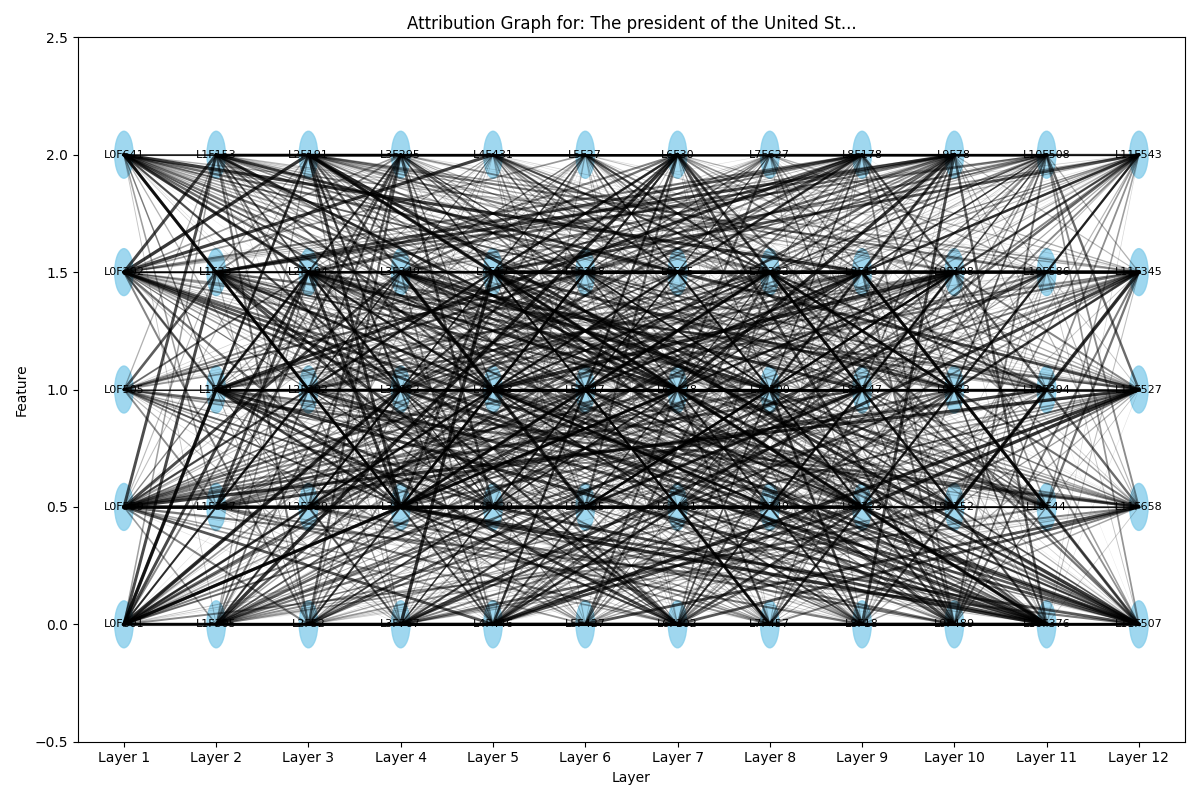
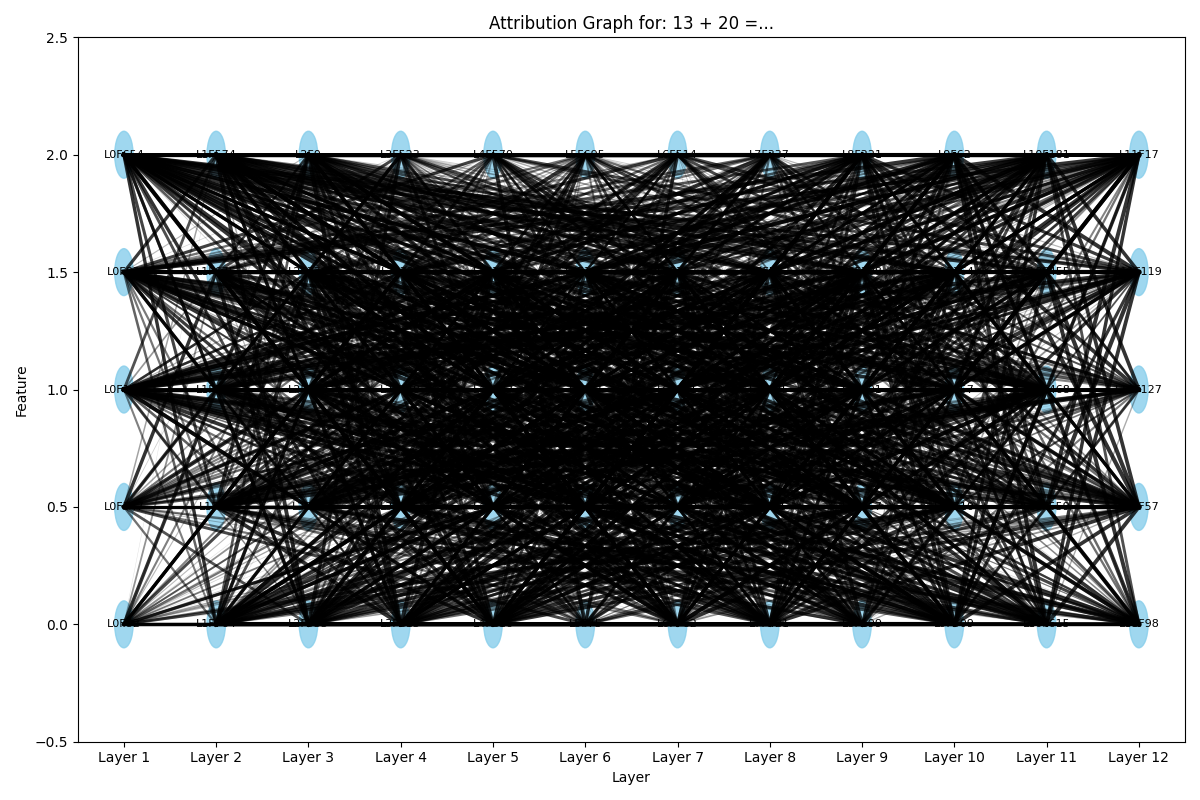
trying to make an addition dataset to work from ... but I think something else is going wrong in the code rn

diff --git a/src/practice_run.py b/src/practice_run.py
@@ -1,5 +1,13 @@
 from openclt.open_cross_layer_transcoder import OpenCrossLayerTranscoder, ReplacementModel
+from sklearn.model_selection import train_test_split
 import torch
+
+def create_addition_datset(A: list[int], B: list[int]):
+    dataset = set()
+    for a in A:
+        for b in B:
+            dataset.add(f"{a} + {b} =")
+    return list(dataset)
 
 # Set device
 device = "cuda" if torch.cuda.is_available() else "cpu"
@@ -12,11 +20,21 @@ transcoder = OpenCrossLayerTranscoder(
 )
 
 # Train the transcoder on sample texts
-train_texts = [
-    "The capital of France is Paris, which is known for the Eiffel Tower.",
-    "New York City is the largest city in the United States.",
-    # Add more training texts...
-]
+# train_texts = [
+#     "The capital of France is Paris, which is known for the Eiffel Tower.",
+#     "New York City is the largest city in the United States.",
+#     # Add more training texts...
+# ]
+
+train_texts, test_texts = train_test_split(
+    create_addition_datset(
+        list(range(1, 25)), 
+        list(range(1, 25))
+    ),
+    test_size=0.2,
+    random_state=42
+)
+
 
 metrics = transcoder.train_transcoder(
     texts=train_texts,
@@ -26,7 +44,8 @@ metrics = transcoder.train_transcoder(
 )
 
 # Visualize feature activations for a test text
-test_text = "The president of the United States lives in the White House."
+test_text = test_texts[0]
+print(f"Test text: {test_text}")
 transcoder.visualize_feature_activations(
     text=test_text,
     top_n=5,
@@ -48,7 +67,7 @@ replacement_model = ReplacementModel(
 
 # Generate text with the replacement model
 generated_text = replacement_model.generate(
-    text="Artificial intelligence",
+    text=test_text,
     max_length=50
 )
 print(generated_text)
